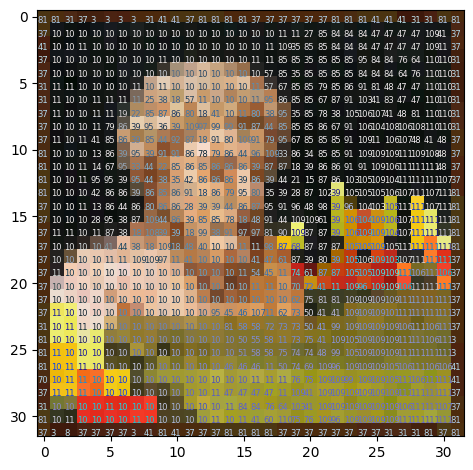
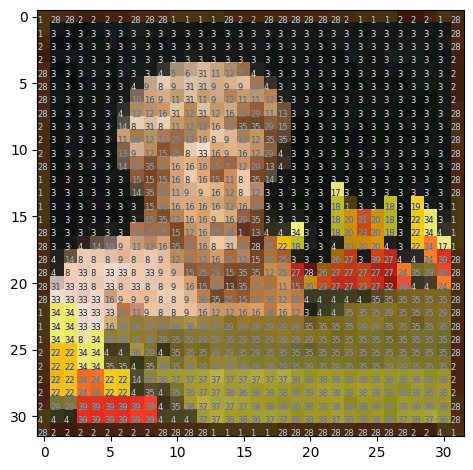
the numbers make sense now

Changed region(s): [[0.0592, 0.0298, 0.9767, 0.9234]]

diff --git a/main.py b/main.py
@@ -5,37 +5,33 @@ import skimage as sk
 from skimage import io, transform, util
 from skimage.util.dtype import img_as_ubyte, img_as_uint
 
-def get_like_colors(image, tolerance, x, y):
-    values = np.zeros([x, y])
+def get_like_colors(image, dimension, tolerance = 100):
+    values = np.zeros([dimension[0], dimension[1]])
     iterator = 0
 
-    for i in range(x):
-        for j in range(y):
+    for i in range(dimension[0]):
+        for j in range(dimension[1]):
             # If values != 0, then this pixel's group has been numbered
             if values[i, j] == 0:
                 iterator += 1
-                for k in range(x):
-                    for l in range(y):
-                        dist = np.linalg.norm(image[i, j] - image[k, l])
-                        if dist < tolerance:
+                for k in range(dimension[0]):
+                    for l in range(dimension[1]):
+                        dist = [abs(int(image[i, j, rgb]) - int(image[k, l, rgb])) for rgb in range(3)]
+                        if all(dist_i < tolerance for dist_i in dist):
                             values[i, j] = iterator
                             values[k, l] = iterator
 
-    return values
+    return values, iterator
 
-def overlay(image, values, x, y):
-    #values = get_like_colors(image, 100, x, y)
+def overlay(image, values, dimension):
     inverted_img = util.invert(image)
 
     # Make this display each different number on separate plots
-    for i in range(x):
-        for j in range(y):
-            plt.text(-0.5 + i, 0.5 + j, str(int(values[i, j])), color = inverted_img[j, i] / 255, size = 6)
-        
-    # plt.text(-0.5 + 5, 0.5 + 30, '1', color = inverted_img[30, 5] / 255, size = 8)
+    for i in range(dimension[0]):
+        for j in range(dimension[1]):
+            plt.text(-0.5 + i, 0.5 + j, str(int(values[j, i])), color = inverted_img[j, i] / 255, size = 6)
 
 def save_and_display(image, name):
-    # io.imsave(fname = name + '.png', arr = image)
     io.imshow(image)
     plt.savefig(name + '_plt.png', bbox_inches = 'tight')
     plt.show()
@@ -48,8 +44,8 @@ def main():
     rescaled_bust = transform.downscale_local_mean(bust, (10, 10, 1), cval = 1)
     rescaled_bust = img_as_ubyte(rescaled_bust / 255)
 
-    values = get_like_colors(rescaled_bust, 50, 32, 32)
-    overlay(rescaled_bust, values, 32, 32)
+    values, num_plots = get_like_colors(rescaled_bust, (32, 32), tolerance = 25)
+    overlay(rescaled_bust, values, (32, 32))
     save_and_display(rescaled_bust, 'output')
 
 main()
